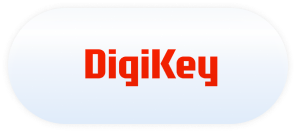
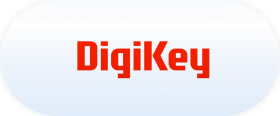
feat(bom): 랜딩 카드를 One BOM 라이트 시안으로 재편하다
- BOM 분석·단일 검색 카드(Figma 2593:7901·2595:10378)를 다크 베이크에서
  라이브 레이어(CSS 그라데이션+글로우 SVG+원본 일러스트 PNG+실 DOM 텍스트)로
  전환 — MCP export 전량이 흰 배경 평탄화라 베이크 합성이 불가했다
- 공용 타이틀 "One BOM. Every Parts."는 font-sans 명시·카드 mt 50px 통일로
  탭 전환 간 위치·글꼴이 소수점까지 동일(실측 top 282/left 702.64)
- 업로드 버튼은 파란 배경+흰 아이콘으로 top 165px, 검색 폼도 동열·Search 라벨
- BOM 문서 그래픽은 배경 잡음 제거한 단독 SVG 오버레이(중앙-4px 앵커)
- 다크 모드: 카드는 시안대로 라이트 그대로 두고 그림자만 토큰 분기
  (--color-bom-landing-card-shadow, 라이트 #d8e4f5·다크 #16181c — 글로우 해소)
- 유통사 필 3종은 캡슐 경계로 재베이크+rounded-full 클리핑으로 교체 —
  mix-blend-multiply 가 다크 캔버스에서 로고를 뭉개던 것을 해소(두 테마 동일 시안)
- 구 자산(bom-card-bg.jpg·bom-card-logo.svg) 제거, e2e 서브타이틀 문구 갱신

Changed region(s): [[0.2571, 0.3362, 0.7714, 0.6983], [0.0286, 0.7759, 0.9714, 1.0]]

diff --git a/samplepcb-web-mono-app/apps/web/src/pages/bom/BomHome.vue b/samplepcb-web-mono-app/apps/web/src/pages/bom/BomHome.vue
@@ -7,7 +7,9 @@ import { useBomProcurementMode } from '../../bom/useProcurementMode';
 import BomLandingCard from '../../components/bom/BomLandingCard.vue';
 import BomLandingIntro from '../../components/bom/BomLandingIntro.vue';
 import BomLandingToggle from '../../components/bom/BomLandingToggle.vue';
-import icUpload from '../../assets/bom/ic-upload-20.svg';
+import cardIllust from '../../assets/bom/bom-card-illust-upload.png';
+import docArt from '../../assets/bom/bom-card-doc.svg';
+import icUpload from '../../assets/bom/ic-upload-20-white.svg';
 
 // 고객 스마트 BOM 업로드 — Figma "01 BOM 업로드"(87:9037) 중앙 콘텐츠 이식(디자인 동일 중점).
 // 파일 선택/드롭 즉시 업로드→분석 이동(시안에 별도 시작 버튼 없음). 공급사 로고는
@@ -76,32 +78,37 @@ watch(error, (message) => {
     <!-- togle btn (87:9712) -->
     <BomLandingToggle active="bom" />
 
-    <!-- drag & drop (87:9040·2282:60957) — 배경은 텍스트 없는 공용 베이크, 로고·타이틀·
-         버튼은 실 DOM(BomLandingCard 참조). 단일 검색 탭과 텍스트 위치를 공유한다. -->
+    <!-- drag & drop (2593:7901) — 카드 프레임·글로우·텍스트는 BomLandingCard, 탭별
+         일러스트(원본 PNG·자체 알파)와 BOM 문서 그래픽·버튼은 이 페이지가 겹쳐 올린다.
+         단일 검색 탭과 텍스트 위치를 공유한다. -->
     <div
-      class="relative mt-[50px] h-[524px] w-full max-w-[640px] shrink-0 overflow-hidden rounded-[8px] transition"
+      class="relative mt-[50px] h-[524px] w-full max-w-[640px] shrink-0 overflow-hidden rounded-[8px] border border-[#d1e9f9] shadow-[0px_10px_30px_0px_var(--color-bom-landing-card-shadow)] transition"
       :class="dragOver ? 'ring-4 ring-brand-strong/40' : ''"
       @dragenter.prevent="dragOver = true"
       @dragover.prevent
       @dragleave.prevent="dragOver = false"
       @drop.prevent="onDrop"
     >
-      <BomLandingCard
-        title="Drag & drop Bom File"
-        subtitle="(xlsx, xls, csv formats, up to 50 MB)"
-      />
+      <BomLandingCard subtitle="Drag & drop Bom File (XLSX, XLS, CSV)">
+        <!-- 일러스트(2593:8046 — 1024x859 원본을 시안 프레임에 비율 무시 스트레치, Figma
+             fill 과 동일)와 문서 그래픽(2593:8060 — 시안 좌표 x267은 카드 중심-4px, 눌린
+             래스터 문서 위에 벡터 문서가 겹친다). 중앙 기준으로 둬야 좁은 화면에서
+             확대 없이 좌우만 잘린다. -->
+        <img :src="cardIllust" alt="" class="pointer-events-none absolute left-1/2 top-[227px] h-[297px] w-[563px] max-w-none -translate-x-1/2">
+        <img :src="docArt" alt="" class="pointer-events-none absolute left-[calc(50%-4px)] top-[240px] h-[117px] w-[97px] -translate-x-1/2">
+      </BomLandingCard>
       <button
         type="button"
-        class="group absolute inset-0 rounded-[8px] focus-visible:outline-none focus-visible:ring-4 focus-visible:ring-inset focus-visible:ring-white/80"
+        class="group absolute inset-0 rounded-[8px] focus-visible:outline-none focus-visible:ring-4 focus-visible:ring-inset focus-visible:ring-brand-strong/50"
         :disabled="create.isPending.value"
         aria-label="BOM 파일 업로드"
         @click="fileInput?.click()"
       >
         <span
-          class="absolute left-1/2 top-[226px] flex h-[48px] w-[172px] -translate-x-1/2 items-center justify-center gap-[6px] rounded-[8px] bg-[#fdfdff] font-noto transition group-hover:bg-white"
+          class="absolute left-1/2 top-[165px] flex h-[48px] w-[172px] -translate-x-1/2 items-center justify-center gap-[6px] rounded-[8px] bg-[#0e6efd] font-noto transition group-hover:bg-blue-700"
         >
           <img :src="icUpload" alt="" class="size-[20px]">
-          <span class="text-[16px] font-bold leading-[24px] text-[#0e6efd]">{{
+          <span class="text-[16px] font-bold leading-[24px] text-white">{{
             create.isPending.value ? 'Uploading…' : 'Select file'
           }}</span>
         </span>

diff --git a/samplepcb-web-mono-app/apps/web/src/pages/bom/BomSearch.vue b/samplepcb-web-mono-app/apps/web/src/pages/bom/BomSearch.vue
@@ -18,6 +18,7 @@ import BomLandingToggle from '../../components/bom/BomLandingToggle.vue';
 import BomPartSearchWorkspace from '../../components/bom/BomPartSearchWorkspace.vue';
 import BomSearchCartPanel from '../../components/bom/BomSearchCartPanel.vue';
 import searchIcon from '../../assets/bom/ic-search-20.svg';
+import cardIllust from '../../assets/bom/bom-card-illust-search.png';
 
 const route = useRoute();
 const router = useRouter();
@@ -138,16 +139,21 @@ async function requestCartQuote(): Promise<void> {
 
     <BomLandingToggle active="search" />
 
-    <!-- search card (2282:61416) — 배경은 텍스트 없는 공용 베이크, 로고·타이틀은 실 DOM
-         (BomLandingCard 참조). BOM 분석 탭과 텍스트 위치를 공유하고 검색 폼만 겹친다. -->
-    <section class="relative mt-[32px] h-[524px] w-full max-w-[640px] shrink-0 overflow-hidden rounded-[8px] sm:mt-[50px]" aria-label="부품 단일 검색">
-      <BomLandingCard title="Search for parts" subtitle="Enter the MPN or part name, and you can start right away" />
-      <form class="absolute left-[16px] right-[16px] top-[226px] z-10 flex h-[48px] sm:left-1/2 sm:right-auto sm:w-[426px] sm:-translate-x-1/2" role="search" @submit.prevent="submitLanding">
+    <!-- search card (2595:10378) — 카드 프레임·글로우·텍스트는 BomLandingCard, 탭별
+         일러스트는 슬롯으로 겹친다. BOM 분석 탭과 텍스트 위치를 공유하고 검색 폼만 다르다. -->
+    <!-- mt 는 BOM 분석 탭과 동일한 50px 고정 — 탭 전환 때 카드·타이틀 위치가 흔들리면 안 된다. -->
+    <section class="relative mt-[50px] h-[524px] w-full max-w-[640px] shrink-0 overflow-hidden rounded-[8px] border border-[#d1e9f9] shadow-[0px_10px_30px_0px_var(--color-bom-landing-card-shadow)]" aria-label="부품 단일 검색">
+      <BomLandingCard subtitle="Enter the MPN or part name, and you can start right away">
+        <!-- 부품 카드 일러스트(2595:10414 — 1024x683 원본을 시안 프레임에 비율 무시
+             스트레치, Figma fill 과 동일) -->
+        <img :src="cardIllust" alt="" class="pointer-events-none absolute left-1/2 top-[286px] h-[214px] w-[595px] max-w-none -translate-x-1/2">
+      </BomLandingCard>
+      <form class="absolute left-[16px] right-[16px] top-[165px] z-10 flex h-[48px] sm:left-1/2 sm:right-auto sm:w-[426px] sm:-translate-x-1/2" role="search" @submit.prevent="submitLanding">
         <label class="flex min-w-0 flex-1 items-center gap-[8px] rounded-l-[8px] bg-[#fdfdff] pl-[12px] pr-[10px] sm:w-[340px] sm:pl-[20px] sm:pr-[16px]">
           <img :src="searchIcon" alt="" class="size-[20px] shrink-0">
           <input v-model="landingInput" type="search" aria-label="부품 검색어" placeholder="예: GRM155R71C104KA88, 100nF..." class="min-w-0 flex-1 bg-transparent text-[14px] font-normal leading-[24px] text-[#061023] outline-none placeholder:text-[#5b6a7e]">
         </label>
-        <button type="submit" class="flex h-[48px] w-[72px] shrink-0 items-center justify-center rounded-r-[8px] bg-[#1e64fd] text-[15px] font-bold leading-[24px] text-white transition hover:bg-blue-700 sm:w-[86px] sm:text-[16px]">검색</button>
+        <button type="submit" class="flex h-[48px] w-[72px] shrink-0 items-center justify-center rounded-r-[8px] bg-[#1e64fd] text-[15px] font-bold leading-[24px] text-white transition hover:bg-blue-700 sm:w-[86px] sm:text-[16px]">Search</button>
       </form>
     </section>
 

diff --git a/samplepcb-web-mono-app/apps/web/src/components/bom/BomLandingCard.vue b/samplepcb-web-mono-app/apps/web/src/components/bom/BomLandingCard.vue
@@ -1,20 +1,29 @@
 <script setup lang="ts">
-import cardBg from '../../assets/bom/bom-card-bg.jpg';
-import cardLogo from '../../assets/bom/bom-card-logo.svg';
+import cardLogo from '../../assets/bom/logo-partseyes.svg';
+import glow from '../../assets/bom/bom-card-glow.svg';
 
-// BOM 분석·단일 검색 랜딩 카드 공용 비주얼(Figma 2282:60957·61416). 배경(그라데이션×
-// 글로우×하단 사진)은 두 시안에서 동일하므로 텍스트 없는 베이크 한 장을 공유하고 —
-// luminosity 블렌드가 CSS 격리 컨텍스트에서 깨져 라이브 재조합이 불가한 부분 —
-// 로고·타이틀은 실 DOM으로 얹어 탭 전환 시 위치가 픽셀 단위로 일치하게 한다.
-// 액션 요소(업로드 버튼·검색 폼)는 각 페이지가 top-[226px]에 겹쳐 올린다.
-defineProps<{ title: string; subtitle: string }>();
+// BOM 분석·단일 검색 랜딩 카드 공용 프레임(Figma 2593:7901·2595:10378). 그라데이션·
+// 글로우·로고·타이틀은 실 DOM 라이브 레이어 — Figma 다운로드 export 가 전부 흰 배경으로
+// 평탄화돼 베이크가 불가하고, 일러스트 원본 PNG 가 자체 알파로 블렌드돼 라이브 합성이
+// 시안과 일치한다. 탭별 일러스트는 기본 슬롯으로 받아 글로우 위·텍스트 아래에 깐다.
+// 카드 테두리·그림자는 클리핑 밖이어야 해서 페이지 컨테이너가 갖고, 액션 요소(업로드
+// 버튼·검색 폼)는 각 페이지가 top-[165px]에 겹쳐 올린다.
+defineProps<{ subtitle: string }>();
 </script>
 
 <template>
-  <img :src="cardBg" alt="" class="pointer-events-none absolute inset-0 size-full">
-  <img :src="cardLogo" alt="Parts Eyes" class="pointer-events-none absolute left-1/2 top-[68px] w-[240px] -translate-x-1/2 sm:w-[290px]">
-  <div class="pointer-events-none absolute inset-x-0 top-[134px] flex flex-col items-center gap-[6px] px-4 text-center font-noto text-[#fdfdff]">
-    <p class="text-[20px] font-medium leading-[32px]">{{ title }}</p>
-    <p class="max-w-full text-[13px] font-normal leading-[20px] opacity-70 sm:text-[16px] sm:leading-[24px]">{{ subtitle }}</p>
+  <div class="pointer-events-none absolute inset-0 bg-gradient-to-b from-[#f0f8fe] via-[#eef7ff] via-[42.8%] to-[#eef8ff]" />
+  <img :src="cardLogo" alt="Parts Eyes" class="pointer-events-none absolute left-[24px] top-[18px] h-[26px] w-[150px]">
+  <div class="pointer-events-none absolute left-1/2 top-[-205px] h-[387px] w-[1098px] -translate-x-1/2">
+    <div class="absolute inset-[-15.5%_-5.46%]">
+      <img :src="glow" alt="" class="block size-full max-w-none">
+    </div>
+  </div>
+  <slot />
+  <div class="pointer-events-none absolute inset-x-0 top-[85px] flex flex-col items-center gap-[6px] px-4 text-center">
+    <!-- 타이틀은 Pretendard(시안 SemiBold) 고정 — 단일 검색 페이지 루트의 font-noto 를
+         상속받으면 탭 전환 때 글꼴이 바뀐다. -->
+    <p class="font-sans text-[24px] font-semibold leading-[24px] text-[#2076ff]">One BOM. Every Parts.</p>
+    <p class="max-w-full font-noto text-[13px] font-medium leading-[20px] text-[#252a31] opacity-60 sm:text-[16px] sm:leading-[32px]">{{ subtitle }}</p>
   </div>
 </template>

diff --git a/samplepcb-web-mono-app/apps/web/src/components/bom/BomLandingIntro.vue b/samplepcb-web-mono-app/apps/web/src/components/bom/BomLandingIntro.vue
@@ -3,8 +3,10 @@ import pillUnikey from '../../assets/bom/pill-unikey.png';
 import pillDigikey from '../../assets/bom/pill-digikey.png';
 import pillMouser from '../../assets/bom/pill-mouser.png';
 
-// 랜딩 카드 아래 소개 문구+공급사 로고(Figma 2282:60901·61708). 두 탭이 공유해
-// 서체(Figma 기준 Noto)·좌표를 고정한다. 필 로고는 사용자 지시로 3종만.
+// 랜딩 카드 아래 소개 문구+공급사 로고(라이트 2282:60328·다크 2282:53271 — 필은
+// 두 테마 동일한 흰 캡슐). 두 탭이 공유해 서체(Figma 기준 Noto)·좌표를 고정한다.
+// 필 로고는 사용자 지시로 3종만. 베이크는 캡슐 경계(140x58)로 정확히 잘라
+// rounded-full 클리핑과 일치시켰다 — 블렌드 없이 다크 캔버스에서도 시안 그대로다.
 const SUPPLIER_LOGOS = [
   { name: 'UNIKEY Electronics', src: pillUnikey },
   { name: 'DigiKey', src: pillDigikey },
@@ -15,13 +17,13 @@ const SUPPLIER_LOGOS = [
 <template>
   <h2 class="mt-[38px] text-center font-noto text-[22px] font-bold leading-[30px] text-ink-strong sm:mt-[50px] sm:text-[26px] sm:leading-[32px]">전자부품 2,000만+ 다양한 제조사</h2>
   <p class="mt-[8px] max-w-xl px-2 text-center font-noto text-[15px] leading-[26px] text-ink-neutral sm:text-[18px] sm:leading-[32px]">공인 유통사의 견적 정보를 최적의 조건으로, 빠르게 받아 비교하세요</p>
-  <div class="mt-[22px] flex flex-wrap items-center justify-center gap-[12px]">
+  <div class="mt-[22px] flex flex-wrap items-center justify-center gap-[20px]">
     <img
       v-for="logo in SUPPLIER_LOGOS"
       :key="logo.name"
       :src="logo.src"
       :alt="logo.name"
-      class="h-[66px] w-[148px] mix-blend-multiply"
+      class="h-[58px] w-[140px] rounded-full"
     >
   </div>
 </template>

diff --git a/samplepcb-web-mono-app/apps/web/src/style.css b/samplepcb-web-mono-app/apps/web/src/style.css
@@ -74,6 +74,9 @@
   --color-bom-landing-toggle: #ffffff;
   --color-bom-landing-toggle-active: #061023;
   --color-bom-landing-toggle-inactive: #27292e;
+  /* 랜딩 카드 그림자 — 카드는 다크에서도 라이트 그대로이고 그림자 색만 갈린다
+     (라이트 2593:7911 #d8e4f5 · 다크 2595:9754 #16181c). */
+  --color-bom-landing-card-shadow: #d8e4f5;
   --color-bom-chrome: #fdfdff;
   --color-bom-chrome-border: #e1e6ef;
   --color-bom-workbench: #fdfdff;
@@ -242,6 +245,7 @@
   --color-bom-landing-toggle: #252a31;
   --color-bom-landing-toggle-active: #061023;
   --color-bom-landing-toggle-inactive: #e1e4e8;
+  --color-bom-landing-card-shadow: #16181c;
   --color-bom-chrome: #0d0d11;
   --color-bom-chrome-border: #2f3949;
   --color-bom-workbench: #191b20;

diff --git a/samplepcb-web-mono-app/e2e/specs/journey-bom-workbook-recovery.e2e.test.ts b/samplepcb-web-mono-app/e2e/specs/journey-bom-workbook-recovery.e2e.test.ts
@@ -130,7 +130,7 @@ async function waitForBodyText(page: Page, text: string, timeout = 60_000): Prom
 }
 
 async function cardFitsViewport(page: Page): Promise<boolean> {
-  const title = page.getByText('Drag & drop Bom File', { exact: true });
+  const title = page.getByText('Drag & drop Bom File (XLSX, XLS, CSV)', { exact: true });
   await title.waitFor({ state: 'visible', timeout: 30_000 });
   const card = title.locator('xpath=../..');
   const box = await card.boundingBox();
